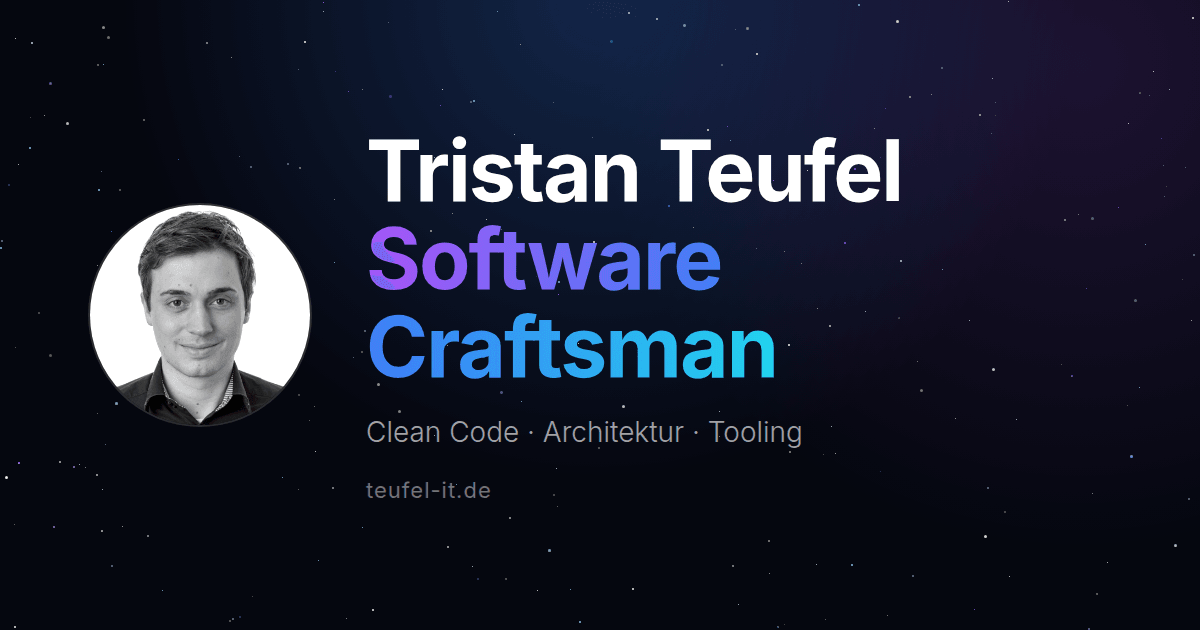
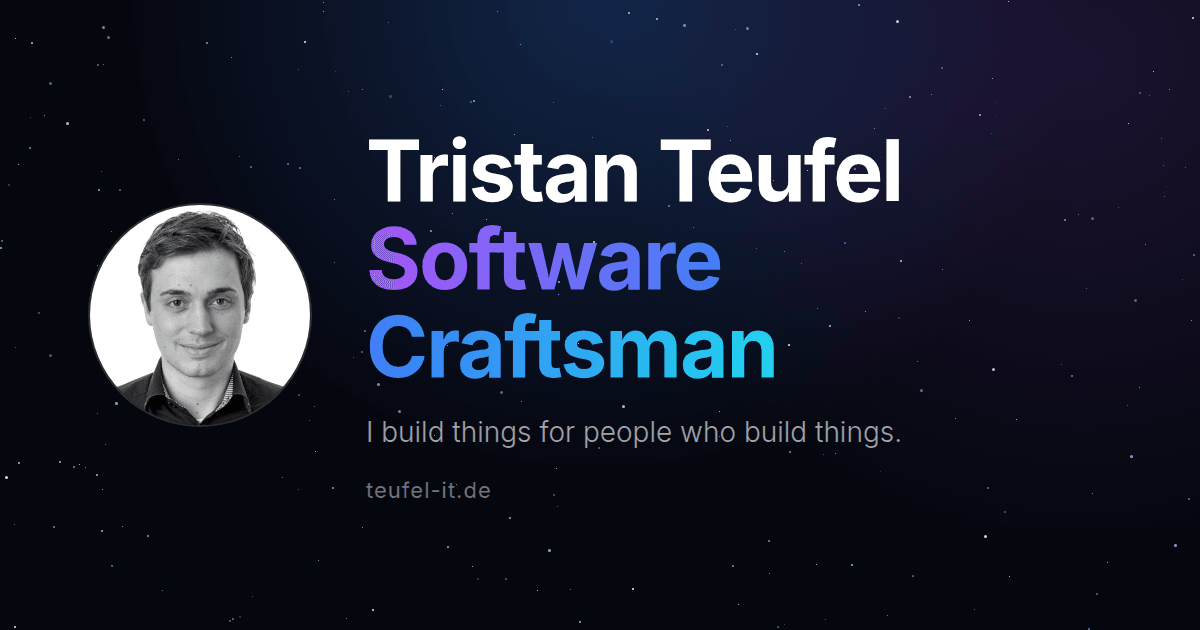
content: use GitHub tagline in hero and OG image
Claude-Session: https://claude.ai/code/session_0198nt8HAxf4oEWis2LcVXi6

Changed region(s): [[0.3083, 0.6635, 0.74, 0.7238], [0.3083, 0.3619, 0.3392, 0.4524]]

diff --git a/src/i18n/translations.ts b/src/i18n/translations.ts
@@ -4,8 +4,6 @@ const de = {
     "Tristan Teufel – selbständiger Software Craftsman mit über 15 Jahren Erfahrung. Sauberer Code, verlässliche Tests und Werkzeuge, die Teams schneller machen.",
 
   "hero.role": "Software Craftsman",
-  "hero.tagline":
-    "Sauberer Code, durchdachte Architektur und Werkzeuge, die Teams schneller machen.",
   "links.cv": "Lebenslauf",
   "links.email": "E-Mail",
 
@@ -59,8 +57,6 @@ const en: Translations = {
     "Tristan Teufel – freelance software craftsman with more than 15 years of experience. Clean code, reliable tests and tools that make teams faster.",
 
   "hero.role": "Software Craftsman",
-  "hero.tagline":
-    "Clean code, thoughtful architecture and tools that make teams faster.",
   "links.cv": "CV",
   "links.email": "Email",
 
